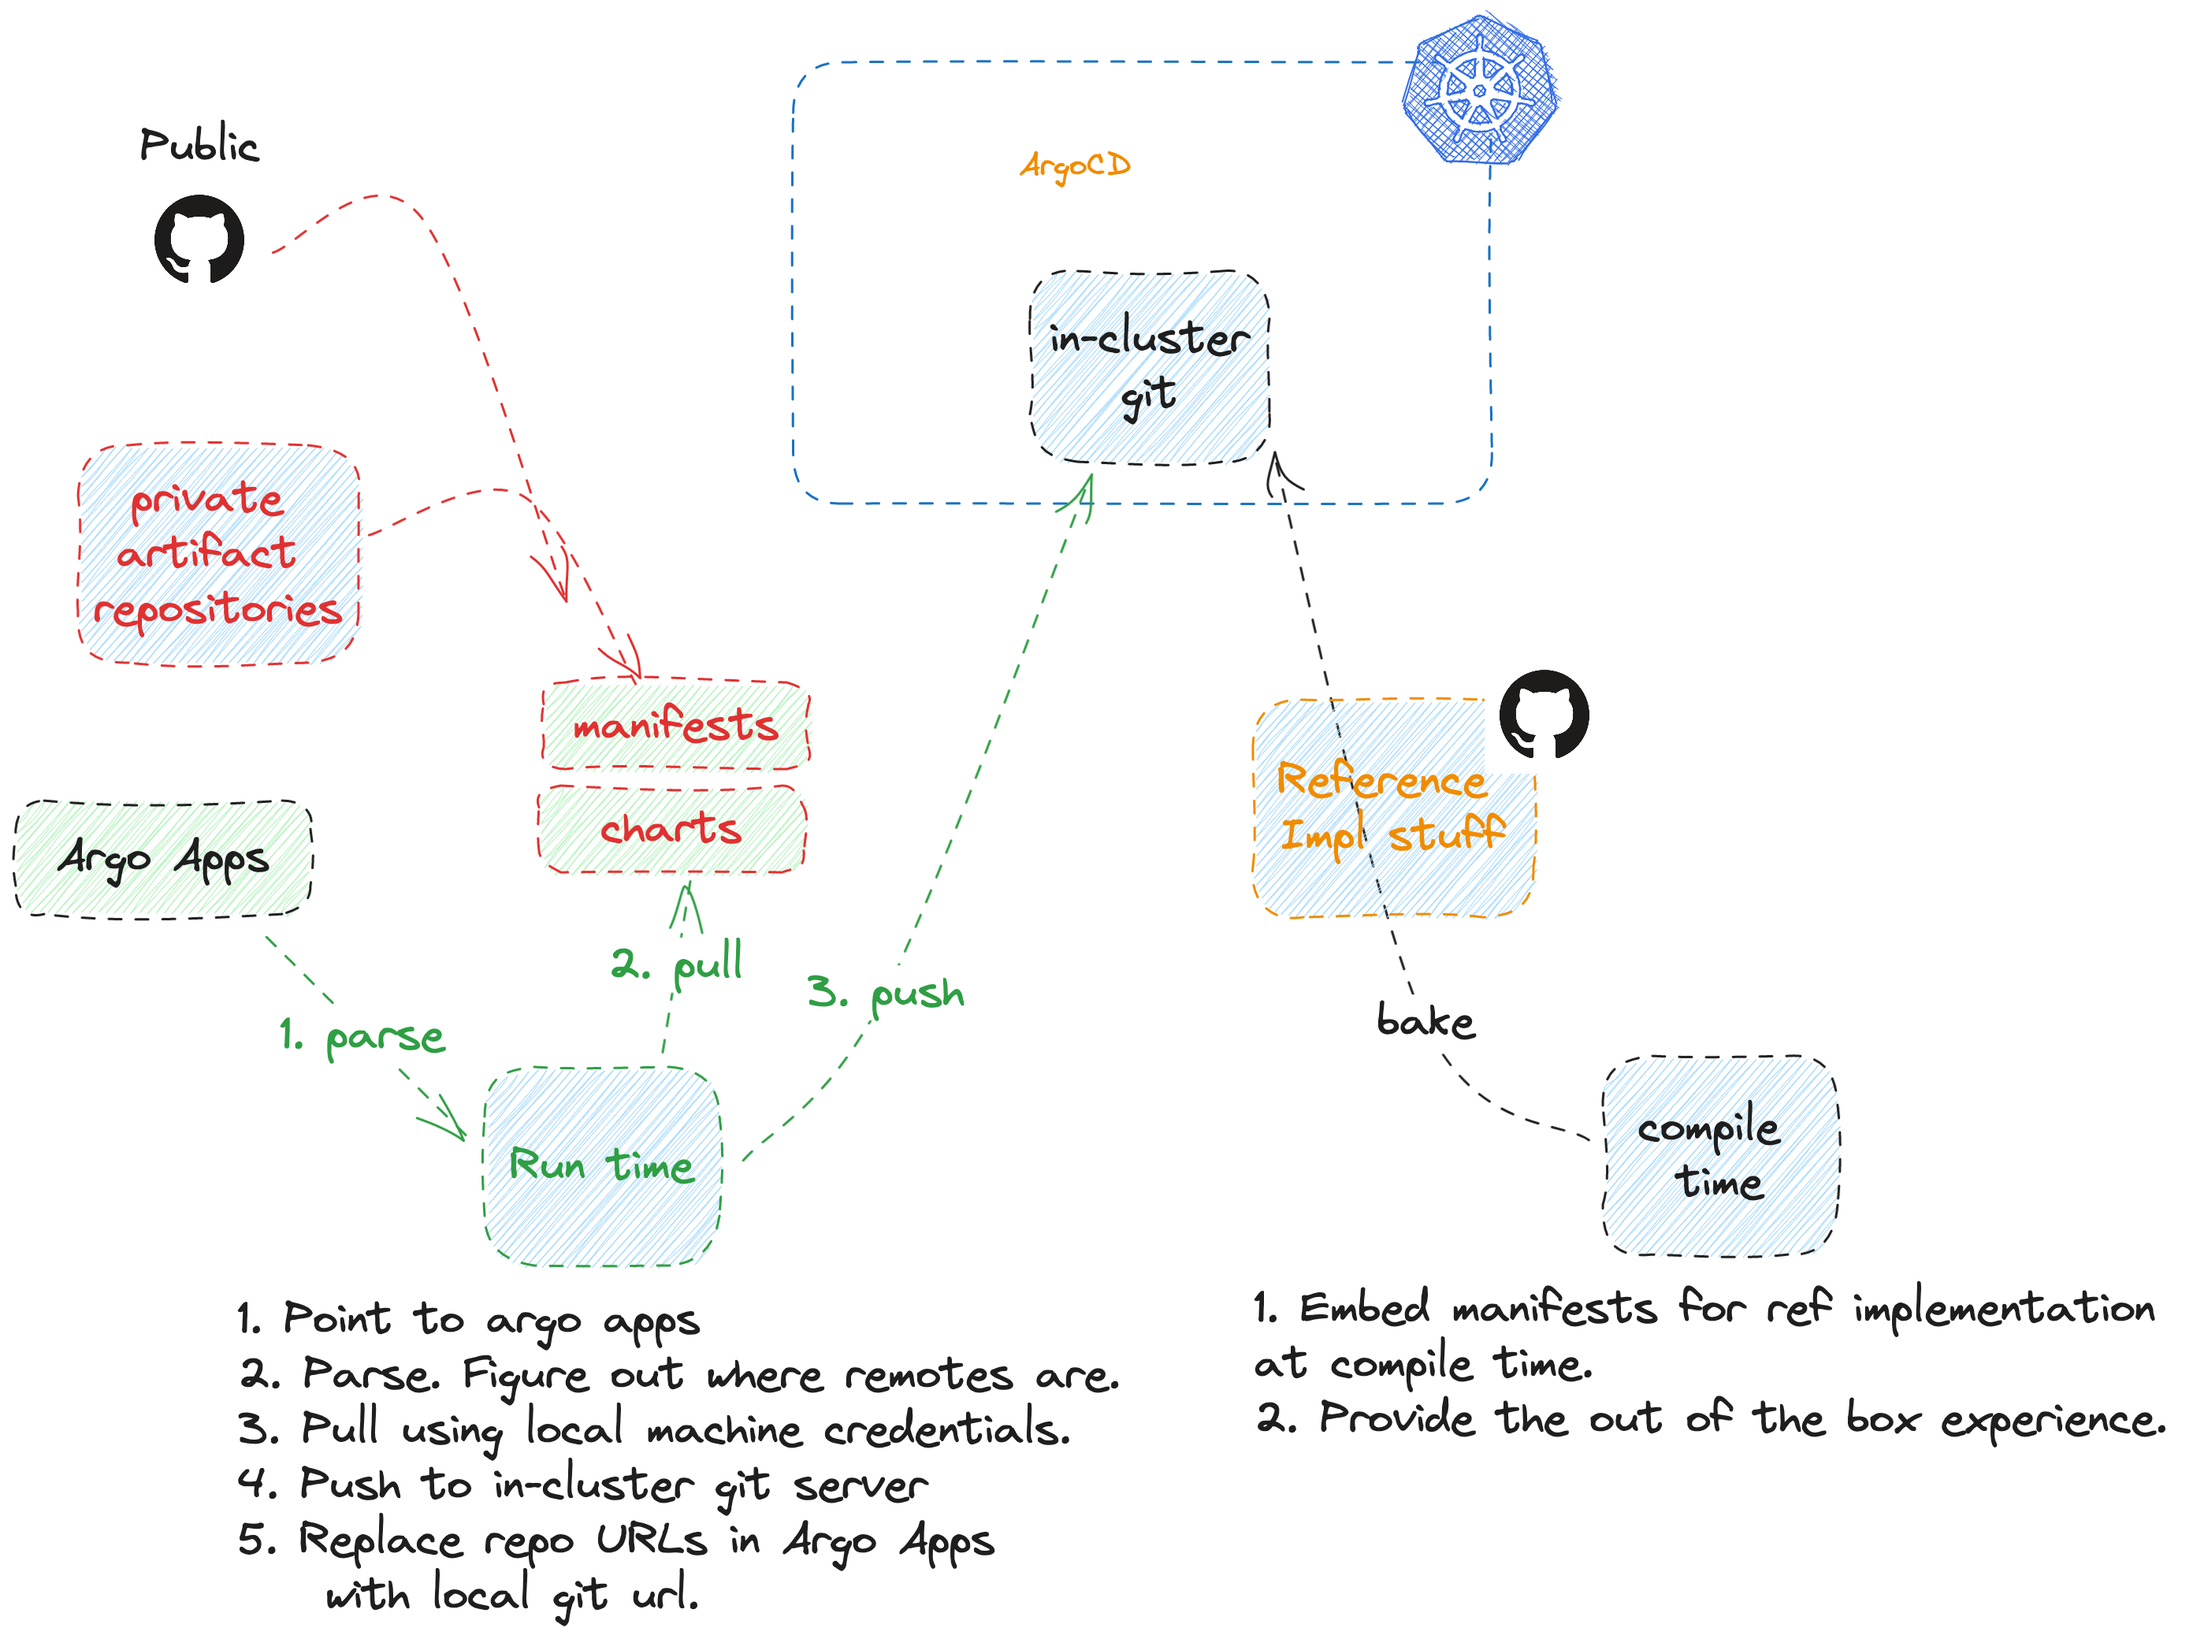
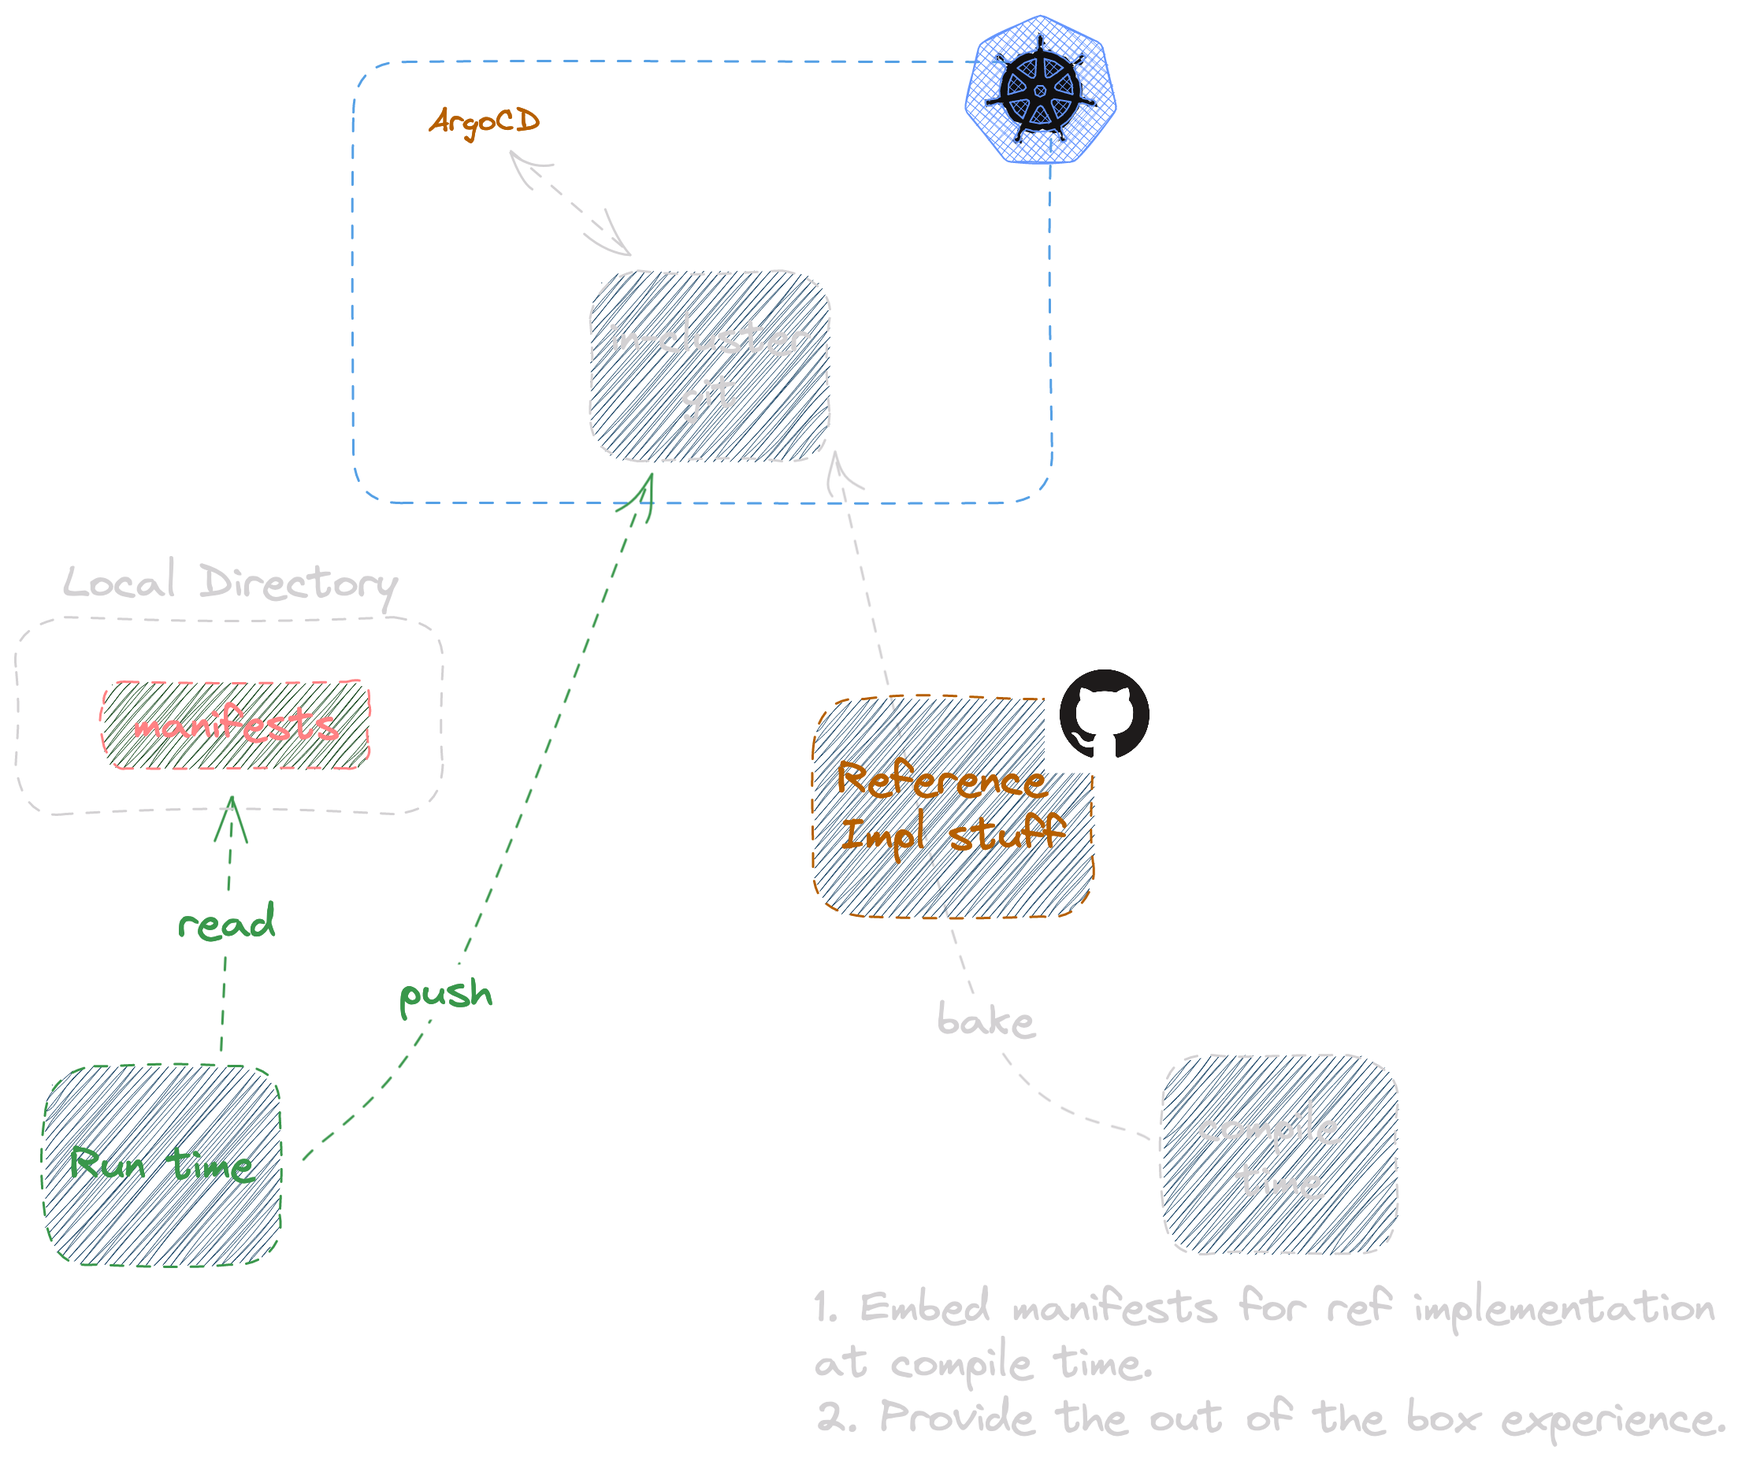
pass secrets instead

diff --git a/docs/pluggable-packages.md b/docs/pluggable-packages.md
@@ -74,71 +74,39 @@ As mentioned earlier, Git server contents are generated at compile time and cann
 To solve this, Git content should be created at run time by introducing a new flag, `--package-dir`, to idpbuilder. This flag takes a directory that contains ArgoCD Applications. 
 If this flag is not specified, use the embedded FS to provide the "default experience" where it uses the manifests provided at compile time to bootstrap and add predetermined packages to the cluster.
 
-#### Repositories
+Because Helm and Kustomize can reference remote repositories, this approach introduces a use case where secrets must be passed to the cluster from local machine. Kubernetes resource YAML files are often stored on a private Git server and require credentials to access. For ArgoCD to access the Git server, the credentials must be passed to ArgoCD as Kubernetes Secrets. 
 
-Because Helm and Kustomize can reference remote repositories, this approach introduces a use case where secrets must be passed to the cluster from local machine. Kubernetes resource YAML files are often stored on a private Git server and require credentials to access. For ArgoCD to access the Git server, the credentials must be passed to ArgoCD as Kubernetes Secrets.
-
-Another approach is to mirror contents from repositories using credentials from local machine, then push them to the in-cluster git server. This does not require credentials to be replicated to the cluster. A few consideration for this approach: 
-
-1. Kustomize references to private remotes.
-    kustomize can reference remote repositories:
-    
-    ```yaml
-      # kustomization.yaml
-      resources:
-      - https://github.com/kubernetes-sigs/kustomize//examples/multibases?timeout=120&ref=v3.3.1
-      namePrefix: remote-
-    ```
-    
-    In this example, to ensure the local git server has everything ArgoCD needs, idpbuilder must:
-      * Pull manifests from `github.com/kubernetes-sigs/kustomize`
-      * Create a new repository in in-cluster git server.
-      * Push contents to the in-cluster repository.
-      * Replace `github.com` with `git-server.git.svc.cluster.local`
-
-2. Helm subcharts from private repositories.
-    Helm subcharts may look like
-    ```
-    # Chart.yaml
-    dependencies:
-    - name: nginx
-      version: "1.2.3"
-      repository: "https://example.com/charts"
-    ```
-    In this example, idpbuilder must:
-      * Pull `chart.tgz` for the nginx chart.
-      * Push it to a in-cluster http server.
-      * Replace `example.com` with `http-endpoint.git.svc.cluster.local`
-
-
-#### ArgoCD Application handling
-
-Consider a case where idpbuilder is given the flag `--package-dir ./packages`, and the `packages` directory contains a yaml file for a ArgoCD application.
+To accomplish this, idpbuilder will provide a flag to pass secrets and other ArgoCD configuration options. `--argocd-config` flag should point to a directory with manifests for configuring ArgoCD, ConfigMaps and Secrets. These manifests will be applied after ArgoCD is deployed and ready. An example directory contents are shown below.
 
 ```yaml
-apiVersion: argoproj.io/v1alpha1
-kind: Application
-spec:
-  sources:
-    - chart: argo-workflows
-      repoURL: https://argoproj.github.io/argo-helm
-      targetRevision: 0.31.0
-      helm:
-        releaseName: argo-workflows
-        valueFiles:
-          - $values/packages/argo-workflows/dev/values.yaml
-    - repoURL: https://github.com/cnoe-io/argo-helm
-      targetRevision: HEAD
-      ref: values
+# --argocd-config ./configs
+apiVersion: v1
+kind: Secret
+metadata:
+  name: argo-helm
+  namespace: argocd
+  labels:
+    argocd.argoproj.io/secret-type: repository
+stringData:
+  name: argo
+  url: https://argoproj.github.io/argo-helm
+  type: helm
+  username: my-username
+  password: my-password
+---
+apiVersion: v1
+kind: ConfigMap
+metadata:
+  name: argocd-cm
+  namespace: argocd
+  labels:
+    app.kubernetes.io/name: argocd-cm
+    app.kubernetes.io/part-of: argocd
+data:
+  url: https://argo-cd-demo.argoproj.io
+
 ```
 
-In the above file, it instructs ArgoCD to use the charts from `argoproj.github.io/argo-helm` and use values stored at `https://github.com/cnoe-io/argo-helm/packages/argo-workflows/dev/values.yaml`
-
-
-In this case, idpbuilder must: 
-
-  * Replace `argoproj.github.io` with `http-endpoint.git.svc.cluster.local`.
-  * Replace `github.com` with `git-server.git.svc.cluster.local`.
 
 #### Local file handling
 
@@ -156,7 +124,7 @@ spec:
 ```
 
 idpbuilder must:
-  * Take and validate (?) all manifests under the `test-package` directory. 
+  * Take and validate all manifests under the `test-package` directory. 
   * Create a new repository in the in-cluster git server.
   * Push the files to the repository.
   * Replace `files://` with `https://git-server.git.svc.cluster.local`
@@ -172,7 +140,6 @@ idpbuilder must:
     - Rendering Helm charts and Kustomize.
     - Sync repository contents, then parse and replace URLs as described above. 
     
-  This means idpbuilder needs libraries to render manifests, which should be avoided for this implementation as discussed above.
 
 ## Alternatives Considered
 
@@ -245,3 +212,67 @@ This introduces a few problems.
 
     We have so far not had a request for this capability with concrete needs and investing time and effort to implement and maintain this feature doesn't work.
 
+#### Git Repository Mirroring
+
+Another approach is to mirror contents from repositories using credentials from local machine, then push them to the in-cluster git server. This does not require credentials to be replicated to the cluster. A few consideration for this approach: 
+
+1. Kustomize references to private remotes.
+    kustomize can reference remote repositories:
+    
+    ```yaml
+      # kustomization.yaml
+      resources:
+      - https://github.com/kubernetes-sigs/kustomize//examples/multibases?timeout=120&ref=v3.3.1
+      namePrefix: remote-
+    ```
+    
+    In this example, to ensure the local git server has everything ArgoCD needs, idpbuilder must:
+      * Pull manifests from `github.com/kubernetes-sigs/kustomize`
+      * Create a new repository in in-cluster git server.
+      * Push contents to the in-cluster repository.
+      * Replace `github.com` with `git-server.git.svc.cluster.local`
+
+2. Helm subcharts from private repositories.
+    Helm subcharts may look like
+    ```
+    # Chart.yaml
+    dependencies:
+    - name: nginx
+      version: "1.2.3"
+      repository: "https://example.com/charts"
+    ```
+    In this example, idpbuilder must:
+      * Pull `chart.tgz` for the nginx chart.
+      * Push it to a in-cluster http server.
+      * Replace `example.com` with `http-endpoint.git.svc.cluster.local`
+
+Given the complexity involved with this approach, the first iteration should focus on passing secrets to ArgoCD. When concrete use cases arise, approaches similar to this should be considered.
+
+###### ArgoCD Application handling
+
+Consider a case where idpbuilder is given the flag `--package-dir ./packages`, and the `packages` directory contains a yaml file for a ArgoCD application.
+
+```yaml
+apiVersion: argoproj.io/v1alpha1
+kind: Application
+spec:
+  sources:
+    - chart: argo-workflows
+      repoURL: https://argoproj.github.io/argo-helm
+      targetRevision: 0.31.0
+      helm:
+        releaseName: argo-workflows
+        valueFiles:
+          - $values/packages/argo-workflows/dev/values.yaml
+    - repoURL: https://github.com/cnoe-io/argo-helm
+      targetRevision: HEAD
+      ref: values
+```
+
+In the above file, it instructs ArgoCD to use the charts from `argoproj.github.io/argo-helm` and use values stored at `https://github.com/cnoe-io/argo-helm/packages/argo-workflows/dev/values.yaml`
+
+
+In this case, idpbuilder must: 
+
+  * Replace `argoproj.github.io` with `http-endpoint.git.svc.cluster.local`.
+  * Replace `github.com` with `git-server.git.svc.cluster.local`.
